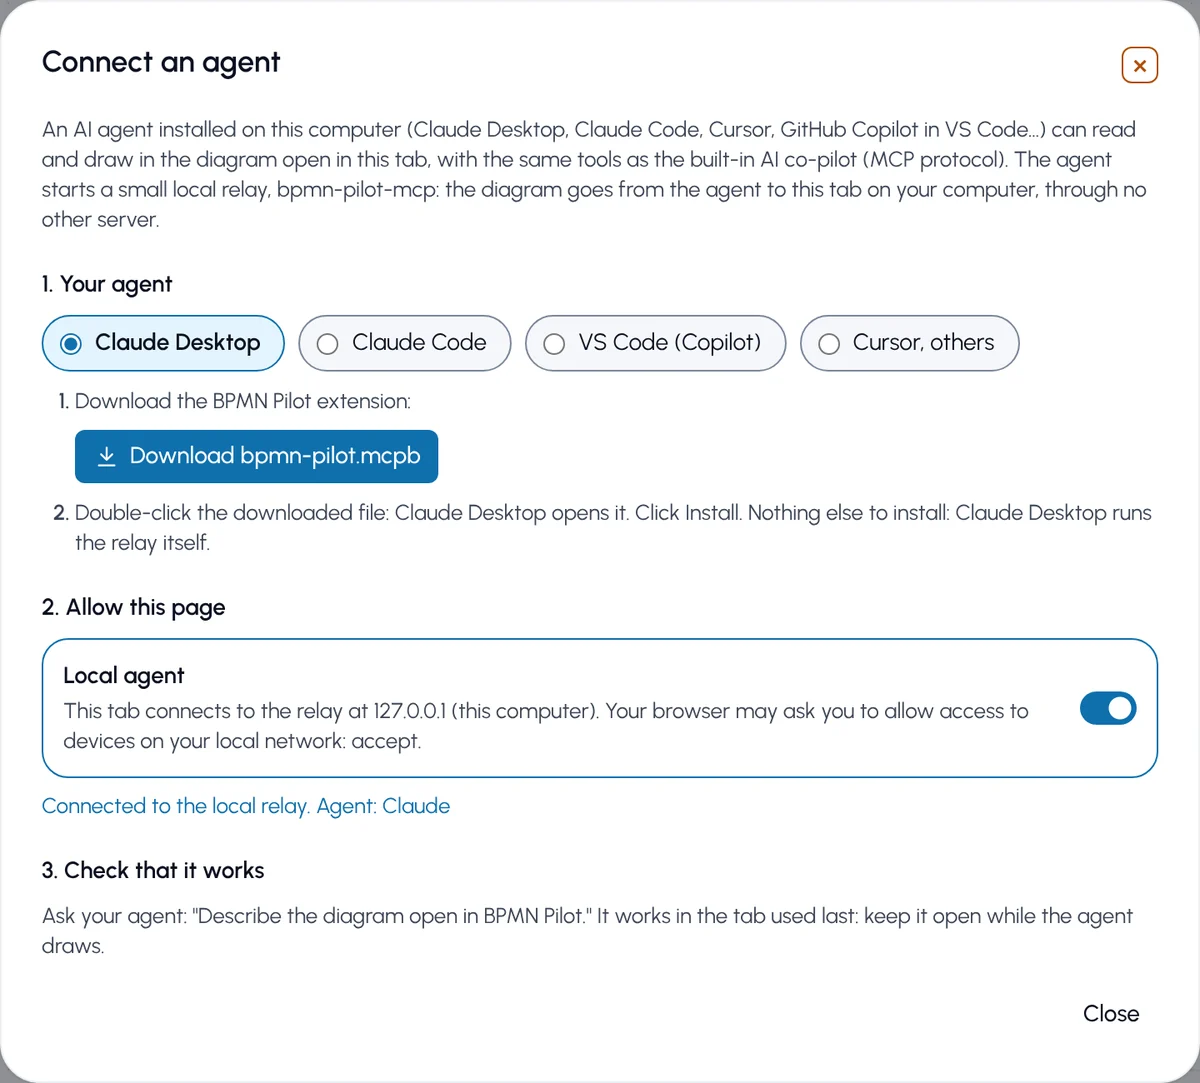
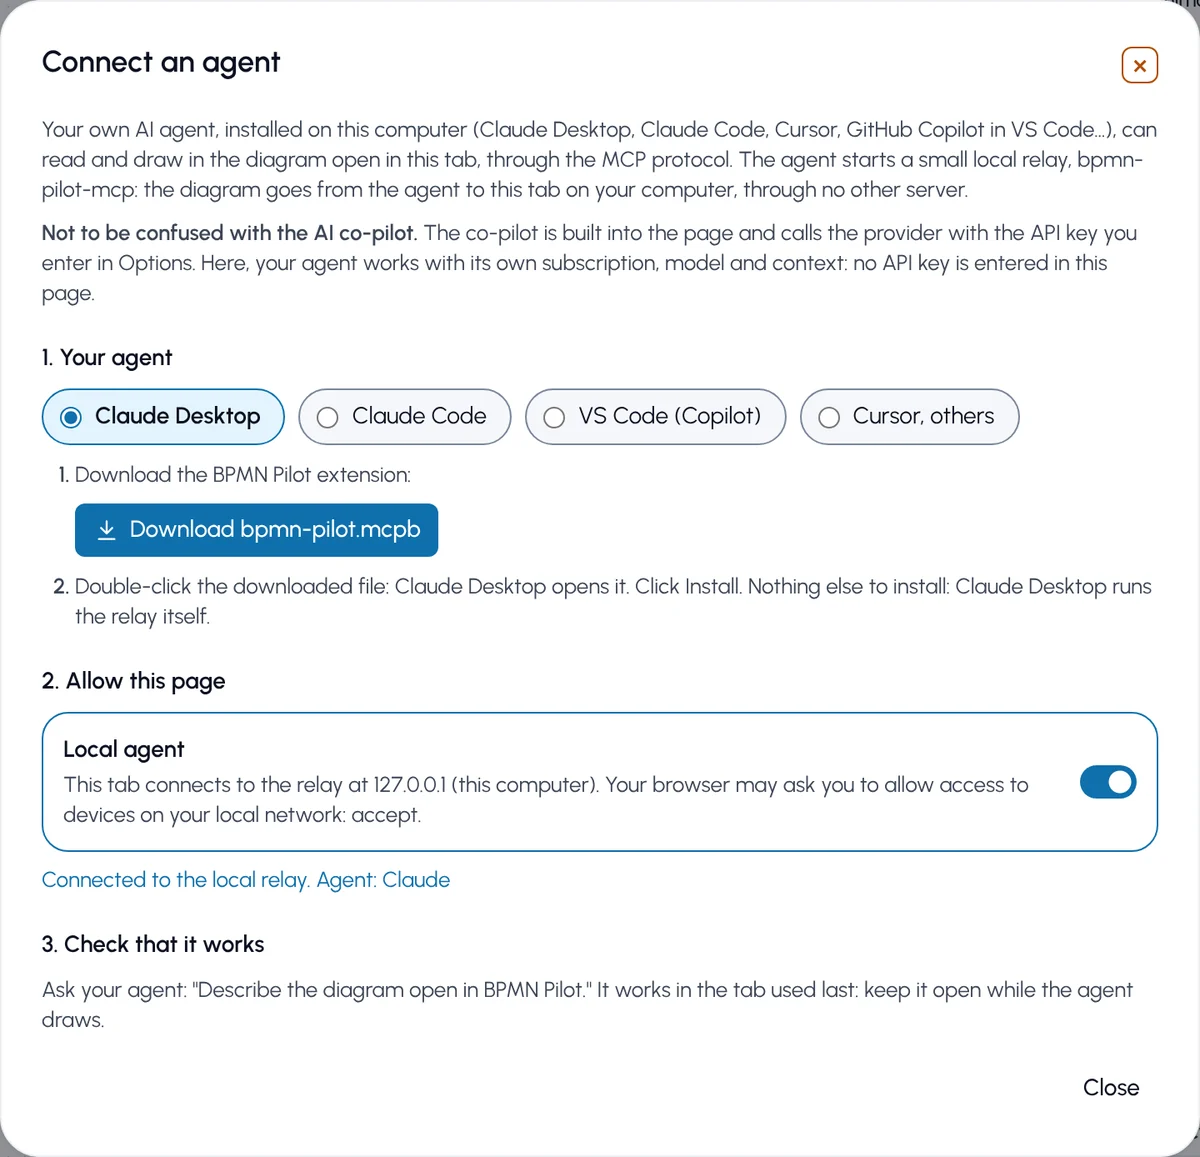
Tell the MCP agent apart from the AI co-pilot
The co-pilot is built into the page and uses the API key entered in
Options. The MCP agent is the user's own assistant, with its own
subscription and context, and no key in the page. The window, the help,
the READMEs and the Privacy window now say so.

diff --git a/aide.html b/aide.html
@@ -574,6 +574,9 @@
         <p><span class="uib"><span class="ico" data-icon="assistant" aria-hidden="true"></span>Co-pilote IA</span> ouvre une discussion. Décrivez le processus, le co-pilote le dessine dans l'éditeur. Il modifie aussi le schéma ouvert, le colore, le range et le vérifie. Tout se retouche ensuite à la main.</p>
         <figure class="fig-anim"><p class="fig-title">Le co-pilote dessine un processus</p><img src="/docs/demo.fr.gif" width="1200" height="675" alt="Le co-pilote IA dessine un processus de commande en ligne avec deux bassins et quatre couloirs" loading="lazy" /><figcaption>Une demande en langage courant, et le schéma se construit dans l'éditeur.</figcaption></figure>
 
+        <!-- online -->
+        <p>Le Co-pilote utilise votre clé API, saisie dans <span class="uib">Options</span>. Pour faire dessiner votre propre agent IA (Claude Desktop, Claude Code, Cursor…) avec son abonnement et son contexte, sans clé dans la page, voir <a href="#agent-local">Connecter votre agent IA (MCP)</a>.</p>
+        <!-- /online -->
         <h3>1. Choisir un fournisseur de LLM</h3>
         <!-- online -->
         <p>Ouvrez <span class="uib">Options</span> et choisissez un fournisseur, avec votre propre clé API :</p>
@@ -1074,7 +1077,7 @@ Pour finir : vérifie le diagramme, corrige ce qui échoue et résume le process
           <li>Vos diagrammes, réglages et clés API restent dans votre navigateur. Ni nous ni l'hébergeur (GitHub Pages) n'y avons accès.</li>
           <li>Avec le co-pilote, vos messages, le diagramme, vos fichiers et votre clé partent directement chez le fournisseur choisi, sous ses propres conditions.</li>
           <li>La dictée reconnaît la voix sur votre appareil.</li>
-          <li>Un <a href="#agent-local">agent local</a> (MCP), si vous l'activez, échange le diagramme avec l'onglet par un relais sur votre ordinateur, sans autre serveur. Ce qu'il en fait dépend de l'agent et de son fournisseur.</li>
+          <li>Votre <a href="#agent-local">agent IA local</a> (MCP), distinct du Co-pilote, si vous l'activez, échange le diagramme avec l'onglet par un relais sur votre ordinateur, sans autre serveur. Ce qu'il en fait dépend de l'agent et de son fournisseur.</li>
           <li>GitHub Pages garde des journaux techniques, dont votre adresse IP.</li>
           <li>Le site stable mesure son audience sans cookie, selon les <a href="https://www.cnil.fr/fr/cookies-solutions-pour-les-outils-de-mesure-daudience" target="_blank" rel="noopener">recommandations de la CNIL</a> pour l'audience exemptée de consentement. L'adresse IP sert seulement à situer le pays, la région et la ville, et n'est pas enregistrée. Sont collectés la page vue, la provenance, l'appareil et quelques actions sans leur contenu (créer, ouvrir, exporter, utiliser le co-pilote, type de fournisseur, durée d'usage par tranche, clic vers la page de soutien). « Do Not Track » et « Global Privacy Control » coupent la mesure.</li>
           <li>Le site ne charge aucun script tiers.</li>
@@ -1094,13 +1097,14 @@ Pour finir : vérifie le diagramme, corrige ce qui échoue et résume le process
       <!-- online -->
       <section id="agent-local">
         <h2>Connecter votre agent IA (MCP)</h2>
-        <p>Un agent IA installé sur votre ordinateur (Claude Desktop, Claude Code, Cursor, GitHub Copilot dans VS Code…) lit et dessine dans le diagramme ouvert dans cet onglet, avec les mêmes outils et les mêmes prompts que dans la <a href="#docker">version Docker</a>. Il passe par un petit relais local, <code>bpmn-pilot-mcp</code>, qu'il lance lui-même : le diagramme va de l'agent à l'onglet sur votre ordinateur, sans passer par aucun autre serveur, et le relais n'écrit rien sur le disque.</p>
+        <p>Votre propre agent IA, installé sur votre ordinateur (Claude Desktop, Claude Code, Cursor, GitHub Copilot dans VS Code…), lit et dessine dans le diagramme ouvert dans cet onglet, avec les mêmes outils et les mêmes prompts que dans la <a href="#docker">version Docker</a>. Il passe par un petit relais local, <code>bpmn-pilot-mcp</code>, qu'il lance lui-même : le diagramme va de l'agent à l'onglet sur votre ordinateur, sans passer par aucun autre serveur, et le relais n'écrit rien sur le disque.</p>
+        <p><strong>À ne pas confondre avec le <a href="#assistant">Co-pilote IA</a>.</strong> Le Co-pilote est intégré à la page et appelle le fournisseur avec la clé API saisie dans <span class="uib">Options</span>. L'agent MCP est votre propre assistant, avec son abonnement, son modèle et son contexte (messagerie, documents, mémoire) : aucune clé API n'est saisie dans la page.</p>
         <ol>
           <li>Cliquez sur <span class="uib">MCP</span> dans la barre d'outils et choisissez votre agent. Pour Claude Desktop, <span class="uib"><span class="ico" data-icon="save" aria-hidden="true"></span>Télécharger bpmn-pilot.mcpb</span>, puis double-cliquez sur le fichier : Claude Desktop fait tourner le relais lui-même, sans Node.js à installer. Pour les autres agents, copiez la ligne ou le bloc proposé dans leurs réglages MCP (Node.js 20 ou plus).</li>
           <li>Activez <span class="ui">Agent local</span>. Jusque-là, la page n'ouvre aucune connexion vers votre ordinateur. Chrome et Edge demandent une fois d'autoriser l'accès au réseau local : acceptez.</li>
           <li>Demandez à votre agent : « Décris le diagramme ouvert dans BPMN Pilot. » Le bouton passe à « MCP : » suivi du nom de l'agent.</li>
         </ol>
-        <figure><img src="/src/help/img/fr-agent-local.webp" width="1200" height="1083" alt="Fenêtre Connecter un agent : choix de l'agent (Claude Desktop, Claude Code, VS Code, Cursor), bouton Télécharger bpmn-pilot.mcpb, interrupteur Agent local activé et mention Relié au relais local." loading="lazy" /><figcaption>La fenêtre Connecter un agent, agent local relié.</figcaption></figure>
+        <figure><img src="/src/help/img/fr-agent-local.webp" width="1200" height="1187" alt="Fenêtre Connecter un agent : choix de l'agent (Claude Desktop, Claude Code, VS Code, Cursor), bouton Télécharger bpmn-pilot.mcpb, interrupteur Agent local activé et mention Relié au relais local." loading="lazy" /><figcaption>La fenêtre Connecter un agent, agent local relié.</figcaption></figure>
         <p>L'agent travaille dans le dernier onglet utilisé : gardez-le ouvert pendant qu'il dessine. Un export revient à l'agent, ou attend dans la page derrière <span class="uib">Télécharger</span>. Safari bloque la connexion d'une page HTTPS vers l'ordinateur : utilisez Chrome, Edge ou Firefox. Ce qui circule est détaillé dans <a href="#confidentialite">Confidentialité</a>.</p>
       </section>
       <!-- /online -->

diff --git a/help.html b/help.html
@@ -574,6 +574,9 @@
         <p><span class="uib"><span class="ico" data-icon="assistant" aria-hidden="true"></span>AI co-pilot</span> opens a chat. Describe the process, and the co-pilot draws it in the editor. It also edits the open diagram, colors it, tidies it up and checks it. Everything can be retouched by hand afterwards.</p>
         <figure class="fig-anim"><p class="fig-title">The co-pilot draws a process</p><img src="/docs/demo.gif" width="1200" height="675" alt="The AI co-pilot draws an online order process with two pools and four lanes" loading="lazy" /><figcaption>A request in plain language, and the diagram builds itself in the editor.</figcaption></figure>
 
+        <!-- online -->
+        <p>The co-pilot uses your API key, entered in <span class="uib">Options</span>. To have your own AI agent (Claude Desktop, Claude Code, Cursor…) draw with its own subscription and context, with no key in the page, see <a href="#local-agent">Connect your AI agent (MCP)</a>.</p>
+        <!-- /online -->
         <h3>1. Choose an LLM provider</h3>
         <!-- online -->
         <p>Open <span class="uib">Options</span> and choose a provider, with your own API key:</p>
@@ -1074,7 +1077,7 @@ To finish: check the diagram, fix what fails and sum up the process in five line
           <li>Your diagrams, settings and API keys stay in your browser. Neither we nor the host (GitHub Pages) can access them.</li>
           <li>With the co-pilot, your messages, the diagram, your files and your key go straight to the chosen provider, under its own terms.</li>
           <li>Dictation recognizes your voice on your device.</li>
-          <li>A <a href="#local-agent">local agent</a> (MCP), if you turn it on, exchanges the diagram with the tab through a relay on your computer, with no other server. What it does with it depends on the agent and its provider.</li>
+          <li>Your <a href="#local-agent">local AI agent</a> (MCP), distinct from the co-pilot, if you turn it on, exchanges the diagram with the tab through a relay on your computer, with no other server. What it does with it depends on the agent and its provider.</li>
           <li>GitHub Pages keeps technical logs, including your IP address.</li>
           <li>The stable site measures its audience without cookies, following the <a href="https://www.cnil.fr/fr/cookies-solutions-pour-les-outils-de-mesure-daudience" target="_blank" rel="noopener">recommendations of the CNIL</a> (the French data protection authority, page in French) for audience measurement exempt from consent. The IP address only serves to locate the country, region and city, and is not recorded. Collected: the page viewed, the referrer, the device and a few actions without their content (create, open, export, use the co-pilot, provider type, active time in ranges, click on the support link). "Do Not Track" and "Global Privacy Control" turn the measurement off.</li>
           <li>The site loads no third-party script.</li>
@@ -1094,13 +1097,14 @@ To finish: check the diagram, fix what fails and sum up the process in five line
       <!-- online -->
       <section id="local-agent">
         <h2>Connect your AI agent (MCP)</h2>
-        <p>An AI agent installed on your computer (Claude Desktop, Claude Code, Cursor, GitHub Copilot in VS Code…) reads and draws in the diagram open in this tab, with the same tools and prompts as in the <a href="#docker">Docker version</a>. It goes through a small local relay, <code>bpmn-pilot-mcp</code>, that it starts itself: the diagram goes from the agent to the tab on your computer, through no other server, and the relay writes nothing to disk.</p>
+        <p>Your own AI agent, installed on your computer (Claude Desktop, Claude Code, Cursor, GitHub Copilot in VS Code…), reads and draws in the diagram open in this tab, with the same tools and prompts as in the <a href="#docker">Docker version</a>. It goes through a small local relay, <code>bpmn-pilot-mcp</code>, that it starts itself: the diagram goes from the agent to the tab on your computer, through no other server, and the relay writes nothing to disk.</p>
+        <p><strong>Not to be confused with the <a href="#assistant">AI co-pilot</a>.</strong> The co-pilot is built into the page and calls the provider with the API key entered in <span class="uib">Options</span>. The MCP agent is your own assistant, with its own subscription, model and context (mail, documents, memory): no API key is entered in the page.</p>
         <ol>
           <li>Click <span class="uib">MCP</span> in the toolbar and pick your agent. For Claude Desktop, <span class="uib"><span class="ico" data-icon="save" aria-hidden="true"></span>Download bpmn-pilot.mcpb</span>, then double-click the file: Claude Desktop runs the relay itself, with no Node.js to install. For other agents, copy the line or block shown into their MCP settings (Node.js 20 or later).</li>
           <li>Turn on <span class="ui">Local agent</span>. Until then, the page opens no connection to your computer. Chrome and Edge ask once to allow access to the local network: accept.</li>
           <li>Ask your agent: "Describe the diagram open in BPMN Pilot." The button then reads "MCP:" followed by the agent's name.</li>
         </ol>
-        <figure><img src="/src/help/img/en-agent-local.webp" width="1200" height="1083" alt="Connect an agent window: agent choice (Claude Desktop, Claude Code, VS Code, Cursor), Download bpmn-pilot.mcpb button, Local agent switch on and the line Connected to the local relay." loading="lazy" /><figcaption>The Connect an agent window, local agent connected.</figcaption></figure>
+        <figure><img src="/src/help/img/en-agent-local.webp" width="1200" height="1157" alt="Connect an agent window: agent choice (Claude Desktop, Claude Code, VS Code, Cursor), Download bpmn-pilot.mcpb button, Local agent switch on and the line Connected to the local relay." loading="lazy" /><figcaption>The Connect an agent window, local agent connected.</figcaption></figure>
         <p>The agent works in the tab used last: keep it open while it draws. An export comes back to the agent, or waits in the page behind <span class="uib">Download</span>. Safari blocks the connection from an HTTPS page to the computer: use Chrome, Edge or Firefox. What goes where is detailed in <a href="#privacy">Privacy</a>.</p>
       </section>
       <!-- /online -->

diff --git a/src/privacy.js b/src/privacy.js
@@ -56,7 +56,9 @@ export function setupPrivacy({ container, env = import.meta.env }) {
           <p>${T('Your diagrams, your settings and your API keys stay in your browser, on your device.',
                  'Vos diagrammes, vos réglages et vos clés API restent dans votre navigateur, sur votre appareil.')}</p>
           <p>${T(`They are not sent to us, nor to the host of this site${hostName}.`,
-                 `Ils ne sont transmis ni à nous ni à l'hébergeur du site${hostName}.`)}</p>`)
+                 `Ils ne sont transmis ni à nous ni à l'hébergeur du site${hostName}.`)}</p>
+          <p>${T('Your own AI agent (MCP), distinct from the AI co-pilot, uses no API key from this page. Once turned on in the MCP window, it exchanges the diagram with this tab through a relay on your computer, through no other server. What it does with it depends on the agent and its provider.',
+                 "Votre propre agent IA (MCP), distinct du Co-pilote IA, n'utilise aucune clé API de cette page. Une fois activé dans la fenêtre MCP, il échange le diagramme avec cet onglet par un relais sur votre ordinateur, sans passer par aucun autre serveur. Ce qu'il en fait dépend de l'agent et de son fournisseur.")}</p>`)
 
   const assistant = section('assistant', T('With the AI co-pilot', "Avec le co-pilote IA"), `
           <p>${T('Your messages, the diagram and your API key are sent from your browser directly to the provider you selected (Anthropic, OpenAI, Mistral, etc.).',
@@ -64,9 +66,7 @@ export function setupPrivacy({ container, env = import.meta.env }) {
           <p>${T("The provider's own terms and privacy policy apply, and it bills you for usage.",
                  "Les conditions d'utilisation et la politique de confidentialité de ce fournisseur s'appliquent, et c'est lui qui vous facture l'usage.")}</p>
           <p>${T('Voice dictation is recognized on your device: neither the sound nor the dictated text leaves the browser until you send the message.',
-                 "La dictée vocale est reconnue sur votre appareil : ni le son ni le texte dicté ne quittent le navigateur avant l'envoi du message.")}</p>
-          <p>${T('A local AI agent (MCP), once turned on in the MCP window, exchanges the diagram with this tab through a relay on your computer, through no other server. What it does with it depends on the agent and its provider.',
-                 "Un agent IA local (MCP), une fois activé dans la fenêtre MCP, échange le diagramme avec cet onglet par un relais sur votre ordinateur, sans passer par aucun autre serveur. Ce qu'il en fait dépend de l'agent et de son fournisseur.")}</p>`)
+                 "La dictée vocale est reconnue sur votre appareil : ni le son ni le texte dicté ne quittent le navigateur avant l'envoi du message.")}</p>`)
 
   // Encadré mis en avant : la clé d'API recommandée pour cet éditeur.
   const responsible = `<section class="pv-section pv-responsible" aria-labelledby="pv-responsible-title">

diff --git a/src/mcp-connect-local.js b/src/mcp-connect-local.js
@@ -42,8 +42,12 @@ export function setupLocalMcpConnect({ badge, onChange }) {
     <form method="dialog">
       <h2>${T('Connect an agent', 'Connecter un agent')}</h2>
       <p class="hint">${T(
-        'An AI agent installed on this computer (Claude Desktop, Claude Code, Cursor, GitHub Copilot in VS Code…) can read and draw in the diagram open in this tab, with the same tools as the built-in AI co-pilot (MCP protocol). The agent starts a small local relay, bpmn-pilot-mcp: the diagram goes from the agent to this tab on your computer, through no other server.',
-        'Un agent IA installé sur cet ordinateur (Claude Desktop, Claude Code, Cursor, GitHub Copilot dans VS Code…) peut lire et dessiner dans le diagramme ouvert dans cet onglet, avec les mêmes outils que le Co-pilote IA intégré (protocole MCP). L\'agent lance un petit relais local, bpmn-pilot-mcp : le diagramme va de l\'agent à cet onglet sur votre ordinateur, sans passer par aucun autre serveur.',
+        'Your own AI agent, installed on this computer (Claude Desktop, Claude Code, Cursor, GitHub Copilot in VS Code…), can read and draw in the diagram open in this tab, through the MCP protocol. The agent starts a small local relay, bpmn-pilot-mcp: the diagram goes from the agent to this tab on your computer, through no other server.',
+        'Votre propre agent IA, installé sur cet ordinateur (Claude Desktop, Claude Code, Cursor, GitHub Copilot dans VS Code…), peut lire et dessiner dans le diagramme ouvert dans cet onglet, par le protocole MCP. L\'agent lance un petit relais local, bpmn-pilot-mcp : le diagramme va de l\'agent à cet onglet sur votre ordinateur, sans passer par aucun autre serveur.',
+      )}</p>
+      <p class="hint">${T(
+        '<strong>Not to be confused with the AI co-pilot.</strong> The co-pilot is built into the page and calls the provider with the API key you enter in Options. Here, your agent works with its own subscription, model and context: no API key is entered in this page.',
+        '<strong>À ne pas confondre avec le Co-pilote IA.</strong> Le Co-pilote est intégré à la page et appelle le fournisseur avec la clé API saisie dans Options. Ici, votre agent travaille avec son propre abonnement, son modèle et son contexte : aucune clé API n\'est saisie dans cette page.',
       )}</p>
       <p class="warn" ${safari ? '' : 'hidden'}>${T(
         'Safari blocks the connection from this page to a program on the computer. Use Chrome, Edge or Firefox.',

diff --git a/relay/README.md b/relay/README.md
@@ -2,7 +2,9 @@
 
 Local MCP relay for [BPMN Pilot](https://bpmn.leylines.fr), a BPMN 2.0 editor that runs in the browser.
 
-Your AI agent (Claude Code, Cursor, VS Code, Windsurf, Gemini CLI…) starts this relay and talks to it over stdio. The BPMN Pilot page open in a browser on the same computer connects to it at `ws://127.0.0.1:3333`, and the agent then reads, draws, lays out, checks and exports the diagram open in that tab, with the same tools as the built-in AI co-pilot.
+Your AI agent (Claude Code, Cursor, VS Code, Windsurf, Gemini CLI…) starts this relay and talks to it over stdio. The BPMN Pilot page open in a browser on the same computer connects to it at `ws://127.0.0.1:3333`, and the agent then reads, draws, lays out, checks and exports the diagram open in that tab.
+
+This is not the AI co-pilot built into the page, which calls a provider with an API key entered in the page. Here your own agent works with its own subscription, model and context, and no API key is entered in the page.
 
 The relay only passes messages between the agent and the tab. It writes nothing to disk, calls no service and accepts no page other than the BPMN Pilot editor.
 

diff --git a/README.fr.md b/README.fr.md
@@ -225,10 +225,14 @@ dit ce qui sort du navigateur, et
 
 ### Connecter un agent à la version en ligne
 
-Un agent installé sur votre ordinateur pilote l'éditeur en ligne par un petit relais local,
+Votre propre agent IA, installé sur votre ordinateur, pilote l'éditeur en ligne par un petit relais local,
 `bpmn-pilot-mcp`, que l'agent lance lui-même. Le relais ne fait que passer les messages entre l'agent
 et l'onglet, sur `127.0.0.1` : le diagramme ne passe par aucun autre serveur, et le relais n'écrit rien
 sur le disque.
+
+Ce n'est pas le Co-pilote IA. Le Co-pilote est intégré à la page et appelle le fournisseur avec la clé API
+saisie dans Options. L'agent MCP est votre propre assistant, avec son abonnement, son modèle et son
+contexte : aucune clé API n'est saisie dans la page.
 
 1. Installez le relais dans votre agent :
    - **Claude Desktop** : téléchargez `bpmn-pilot.mcpb` dans la [dernière version publiée](https://github.com/Leylines-Prism/bpmn-pilot/releases/latest)

diff --git a/README.md b/README.md
@@ -215,10 +215,14 @@ some providers (OpenAI) refuse calls from a web page. The "Privacy" link on the 
 
 ### Connect an agent to the online version
 
-An agent installed on your computer drives the online editor through a small local relay,
+Your own AI agent, installed on your computer, drives the online editor through a small local relay,
 `bpmn-pilot-mcp`, that the agent starts itself. The relay only passes messages between the agent
 and the tab, on `127.0.0.1`: the diagram goes through no other server, and the relay writes nothing
 to disk.
+
+It is not the AI co-pilot. The co-pilot is built into the page and calls the provider with the API key
+you enter in Options. The MCP agent is your own assistant, with its own subscription, model and context:
+no API key is entered in the page.
 
 1. Install the relay in your agent:
    - **Claude Desktop**: download `bpmn-pilot.mcpb` from the [latest release](https://github.com/Leylines-Prism/bpmn-pilot/releases/latest)
